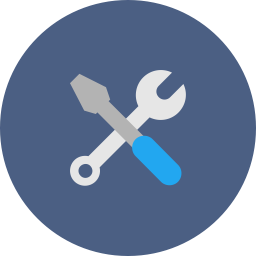
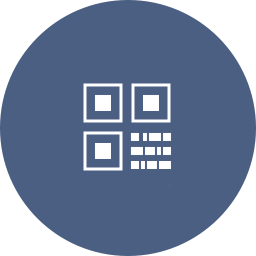
Added repair screen.

Changed region(s): [[0.25, 0.25, 0.75, 0.75]]

diff --git a/assets/pages/orders/repair.html b/assets/pages/orders/repair.html
@@ -1,13 +1,44 @@
-<section class="ng-cloak">
+<section class="ng-cloak" >
   <div class="container">
     <div class="row">
       <div class="col-xs-12">
-        <h1>AGT Service Request - Repair Order</h1>
+        <h2>AGT Service Request - Repair Order</h2>
       </div>
     </div>
     <div class="row">
-      <div class="col-xs-12">  
-        123
+      <div class="col-xs-12 col-sm-4 col-md-4" data-ng-click="go('/start-repair')">
+        <div class="thumbnail thumbnail-link thumbnail-qr">
+          <div class="thumbnail-img-container">
+            <div class="thumbnail-img"></div>
+          </div>
+          <div class="caption">
+            <h2>QR Code</h2>
+            <p>Scan a equipment QR code</p>
+          </div>
+        </div>
+      </div>
+      <div class="col-xs-12 col-sm-4 col-md-4">
+        <div class="thumbnail thumbnail-link thumbnail-loc" data-ng-class="{'disabled':!repairCtrl.coord}">
+          <div class="thumbnail-img-container">
+            <h2 data-ng-show="!!repairCtrl.coord"><span class="label label-info">42</span></h2>
+            <div class="thumbnail-img"></div>
+          </div>
+          <div class="caption">
+            <h2>Location</h2>
+            <p>Equipments around me</p>
+          </div>
+        </div>
+      </div>
+      <div class="col-xs-12 col-sm-4 col-md-4">
+        <div class="thumbnail thumbnail-link thumbnail-manual">
+          <div class="thumbnail-img-container">
+            <div class="thumbnail-img"></div>
+          </div>
+          <div class="caption">
+            <h2>Manual</h2>
+            <p>Find a equipment</p>
+          </div>
+        </div>
       </div>
     </div>
   </div>

diff --git a/assets/css/app.css b/assets/css/app.css
@@ -9,7 +9,6 @@ main {
 	display:flex;
 	flex-flow:column;
   flex:1 0 auto;
-  margin-top:80px;
   position:relative;
 }
 
@@ -35,6 +34,12 @@ main {
 }
 /**** End Of: Newton Fixes ****/
 
+.thumbnail.disabled {
+	cursor:default;
+	opacity:0.4;
+	box-shadow:none !important;
+}
+
 .thumbnail-link {
 	cursor:pointer;
 	transition:all 0.5s;
@@ -44,8 +49,9 @@ main {
 }
 
 .thumbnail-img-container {
-	height:200px;
+	height:180px;
 	padding:25px 25px 0;
+	position:relative;
 }
 .thumbnail-img {
 	height:100%;
@@ -59,6 +65,28 @@ main {
 
 .thumbnail-sales .thumbnail-img {
   background-image: url('../images/icoSales.png');
+}
+
+.thumbnail-qr .thumbnail-img {
+  background-image: url('../images/icoQr.png');
+}
+
+.thumbnail-manual .thumbnail-img {
+  background-image: url('../images/icoManual.png');
+}
+
+.thumbnail-loc .thumbnail-img {
+  background-image: url('../images/icoLoc.png');
+}
+.thumbnail-loc .thumbnail-img-container h2 {
+	position:absolute;
+	right:-5px;
+	top:-5px;
+	transition:all 0.5s;
+	margin:0;
+}
+.thumbnail-loc:hover .thumbnail-img-container .label {
+	box-shadow:0px 0px 6px #888;
 }
 
 

diff --git a/assets/js/repair/repair.controller.js b/assets/js/repair/repair.controller.js
@@ -1,0 +1,46 @@
+(function () {
+  'use strict';
+
+  angular.module(document.app.name).controller('repairController', repairController);
+
+  repairController.$inject = ['$scope'];
+
+  function repairController($scope) {
+    var vm = this;
+    
+    vm.fn = {
+      getLocation: getLocation
+    };
+    
+    vm.coord = null;
+    
+    /***/
+
+    (function () {
+      getLocation();
+    })();
+
+    /***/
+    
+    function getLocation() {
+      if ("geolocation" in navigator) {
+        navigator.geolocation.getCurrentPosition(function(position) {
+//          console.log(geolib.isPointInCircle(
+//            {latitude: 38.714, longitude: -8.954},
+//            {latitude: position.coords.latitude, longitude: position.coords.longitude},
+//            5000
+//        ));
+          
+          vm.coord = position.coords;
+          $scope.$apply();
+          console.log(vm.coord);
+        });
+      } else {
+        return false;
+      }
+    }
+    
+    
+  }
+  
+})();

diff --git a/index.html b/index.html
@@ -67,8 +67,12 @@
   <script src="assets/js/vendor/angular-scroll-spy.js"></script>
   <script src="assets/js/vendor/simpl-theme-bootstrap.bundle.min.js"></script>
   
+  <script src="assets/js/vendor/geolib.min.js"></script>
+  
   <script src="assets/js/app.config.js"></script>
   <script src="assets/js/app.controller.js"></script>
+  
+  <script src="assets/js/repair/repair.controller.js"></script>
   <!-- endinject -->  
 </body>
 </html>

diff --git a/assets/js/app.config.js b/assets/js/app.config.js
@@ -12,7 +12,9 @@
     $routeProvider.when("/", {
       templateUrl: "assets/pages/home.html"
     }).when("/start-repair", {
-      templateUrl: "assets/pages/orders/repair.html"
+      templateUrl: "assets/pages/orders/repair.html",
+      controller: 'repairController',
+      controllerAs: 'repairCtrl',
     });
   });
 

diff --git a/assets/js/app.controller.js b/assets/js/app.controller.js
@@ -11,7 +11,6 @@
     /***/
 
     (function () {
-    
     })();
 
     /***/
